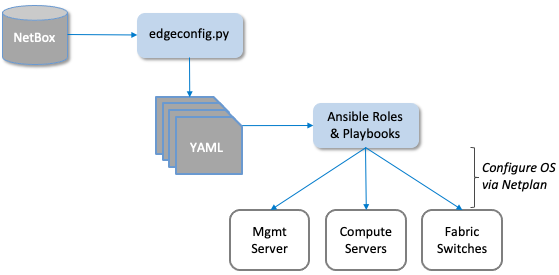
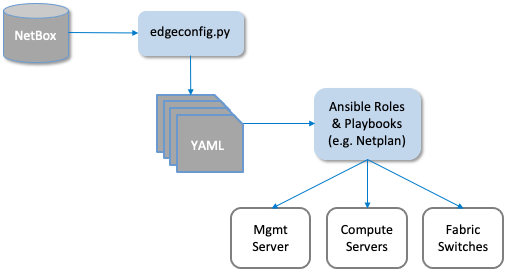
wordsmithing

diff --git a/provision.rst b/provision.rst
@@ -2,26 +2,26 @@ Chapter 3:  Resource Provisioning
 =================================
 
 Resource Provisioning is the process of bringing virtual and physical
-resources online. It has both a hands-on component (installing devices
-in a rack) and a bootstrap component (configuring how the resources
-boot into a "ready" state). Resource Provisioning happens when a cloud
-deployment is first installed—i.e., an initial set of resources are
-provisioned—but also incrementally over time as new resources are
-added, obsolete resources are removed, and out-of-date resources are
-upgraded.
+resources online. It has both a hands-on component (racking and
+connecting devices) and a bootstrap component (configuring how the
+resources boot into a "ready" state). Resource Provisioning happens
+when a cloud deployment is first installed—i.e., an initial set of
+resources are provisioned—but also incrementally over time as new
+resources are added, obsolete resources are removed, and out-of-date
+resources are upgraded.
 
-The goal of a Resource Provisioning is to be zero-touch, which is
+The goal of Resource Provisioning is to be zero-touch, which is
 impossible for hardware resources because it includes an intrinsically
 manual step. (We'll take up the issue of provisioning virtual
 resources in a moment.) Realistically, the goal is to minimize the
 number and complexity of configuration steps required beyond
 physically connecting the device, keeping in mind that we are starting
 with commodity hardware received directly from a vendor, and not a
-plug-and-play appliance that has been prepped.
+plug-and-play appliance that has already been prepped.
 
 When a cloud is built from virtual resources (e.g., VMs instantiated
-on a commercial cloud) the "install" step for is carried out by
-sequence of API calls rather a hands-on technician.  Of course, we
+on a commercial cloud) the "rack and connect" step for is carried out
+by sequence of API calls rather a hands-on technician.  Of course, we
 want to automate the sequence of calls needed to activate virtual
 infrastructure, which has inspired an approach know as
 *infrastructure-as-code*. The general idea is to document, in a
@@ -128,7 +128,7 @@ sources. More information is readily available on the NetBox web site:
    Resource Modeling Application.
 
 One of the key features of NetBox is the ability to customize the set
-of models used to organized all the information that is collected. For
+of models used to organize all the information that is collected. For
 example, an operator can define physical groupings like *Rack* and
 *Site*, but also logical groupings like *Organization* and
 *Deployment*.\ [#]_  In the following we use the Aether cable plan shown in
@@ -207,8 +207,9 @@ purposes:
 
 For completeness, there are other edge prefixes used by Kubernetes but
 do not need to be created in NetBox. Note that ``qsfp0`` and ``qsfp1``
-in this example denotes a transceiver ports connecting the switching
-fabric; *QSFP* stand for Quad (4-channel) Small Form-factor Plugable.
+in this example denote transceiver ports connecting the switching
+fabric, where *QSFP* stand for Quad (4-channel) Small Form-factor
+Plugable.
    
 With this site-wide information recorded, the next step is to install
 and document each *Device*. This includes entering a ``<devname>``,
@@ -303,28 +304,28 @@ structure.
 
 In addition to installing the hardware and recording the relevant
 facts about the installation, the other necessary step is to configure
-the hardware so that it is "ready" for the automated procedures that
-follow. The goal is to minimize manual configuration required to
-onboard physical infrastructure like that shown in :numref:`Figure %s
-<fig-cable_plan>`, but *zero-touch* is a high bar. To illustrate, the
-bootstrapping steps needed to complete provisioning for our example
-POD currently includes:
+and boot the hardware so that it is "ready" for the automated
+procedures that follow. The goal is to minimize manual configuration
+required to onboard physical infrastructure like that shown in
+:numref:`Figure %s <fig-cable_plan>`, but *zero-touch* is a high
+bar. To illustrate, the bootstrapping steps needed to complete
+provisioning for our example POD currently includes:
 
 * Configuring the Management Switch to know the set of VLANs being
   used.
 
-* Configure the Management Server so it boots from a provided USB key.
+* Configuring the Management Server so it boots from a provided USB key.
   
-* Load Ansible roles and playbooks needed to complete configuration
-  onto Management Server.
+* Loading Ansible roles and playbooks needed to complete configuration
+  onto the Management Server.
 
-* Configure the Compute Servers so they iPXE boot from the Management
-  Server.
+* Configuring the Compute Servers so they boot from the Management
+  Server (via iPXE).
 
-* Configure the Fabric Switches so they boot from the Management
-  Server.
+* Configuring the Fabric Switches so they boot from the Management
+  Server (via Nginx).
 
-* Configure the eNBs (cellular base stations) so they know their IP
+* Configuring the eNBs (cellular base stations) so they know their IP
   addresses. Various radio parameters can be set at this time, but
   they will become settable through the Management Platform once the
   POD is fully initialized.
@@ -344,16 +345,22 @@ is greatly simplified by having access to all the configuration
 parameters maintained by NetBox.
 
 The general idea is straightforward. For every network service (e.g.,
-DNS, DHCP, Ngnix) and every per-device subsystem (e.g., Docker,
-network interfaces) that needs to be configured, there is a
+DNS, DHCP, iPXE, Nginx) and every per-device subsystem (e.g., network
+interfaces, Docker) that needs to be configured, there is a
 corresponding Ansible role and playbook (i.e., script).\ [#]_ This set
 is copied onto the Management Server during the manual configuration
 stage summarized above, and then executed once the management network
-is onine.
+is online.
 
 .. [#] We gloss over the distinction between *roles* and *playbooks*
        in Ansible, and focus on the general idea of there being a
        script that runs with a set of input parameters.
+
+The Ansible playbooks instantiate the network services on the
+Management Server. The role of DNS and DHCP are obvious. As for iPXE
+and Nginx, they serve as boot servers for the rest of the
+infrastructure: the compute servers are configured to boot from the
+former and the fabric switches are configured to boot from the latter.
 
 In many cases, the playbooks use parameters—such as VLANs, IP
 addresses, DNS names, and so on—extracted from NetBox. :numref:`Figure
@@ -362,9 +369,8 @@ details. For example, a home-grown Python program (``edgeconfig.py``)
 extracts data from NetBox and outputs a corresponding set of YAML
 files, crafted to serve as input to yet another open source tool
 (*Netplan*), which actually does the detailed work of configuring the
-network subsystem on the various backend devices (each of which has
-its own unique configuration syntax). More information about Ansible
-and Netplan is available on their respective web sites:
+network subsystem on the various backend devices. More information
+about Ansible and Netplan is available on their respective web sites:
 
 .. _reading_ansible:
 .. admonition:: Further Reading
@@ -384,11 +390,11 @@ and Netplan is available on their respective web sites:
 While :numref:`Figure %s <fig-ansible>` highlights how Ansible is
 paired with Netplan to configure kernel-level details, there is also
 an Ansible playbook that installs Docker on each compute server and
-fabric switch, and then launches a container running a "finalize"
-image. This image makes calls into the next layer of the provisioning
-stack, effectively signalling that the POD is running and ready for
-further instructions. We are now ready to describe that next layer of
-the stack.
+fabric switch, and then launches a Docker container running a
+"finalize" image. This image makes calls into the next layer of the
+provisioning stack (e.g., Terraform), effectively signalling that the
+POD is running and ready for further instructions. We are now ready to
+describe that next layer of the stack.
 
 
 3.2 Infrastructure-as-Code
